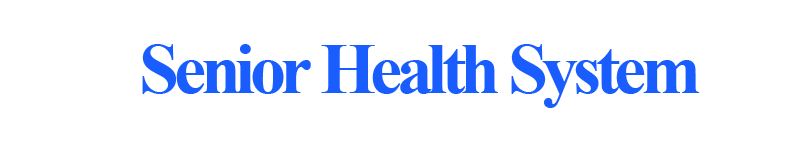
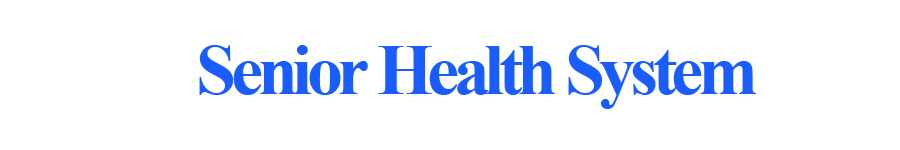
Center the whole page, align the header

Changed region(s): [[0.1562, 0.2933, 0.875, 0.72]]

diff --git a/stepPage.css b/stepPage.css
@@ -24,8 +24,8 @@
 	
 	
   position: absolute;
-  top: 560px;
-  left: 800px;
+  top: 550px;
+  left: 1050px;
   width: 10%;
   height: 10%;
   z-index: 10;
@@ -38,6 +38,8 @@
   height:670px;
   background:#C7EDC7;
   box-shadow: 7px 7px 7px #888888;
+  margin-left: auto ;
+  margin-right: auto ;
 }
 
 #HomeIconSection{
@@ -58,7 +60,7 @@ position: absolute;
   text-align: center;
   vertical-align: middle;
   line-height: 120px;  
-  /**background:white;**/
+  /**background:red;**/
   width:800px
 }
 
